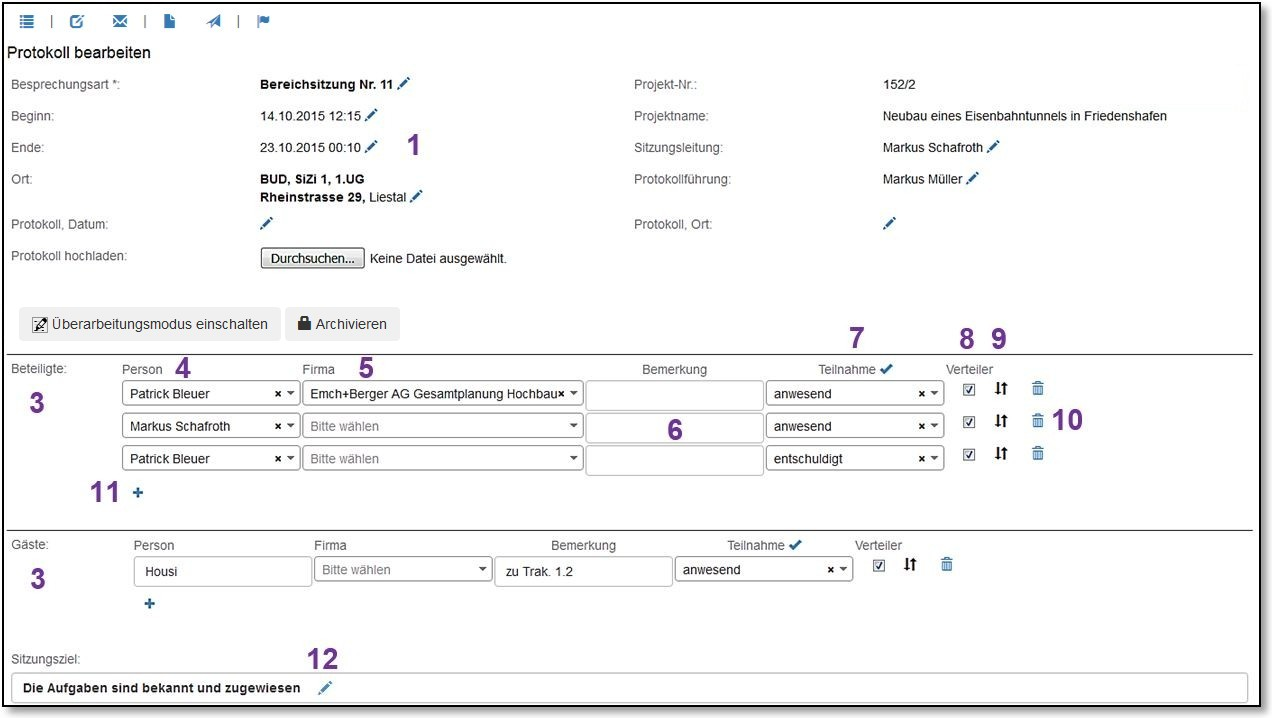
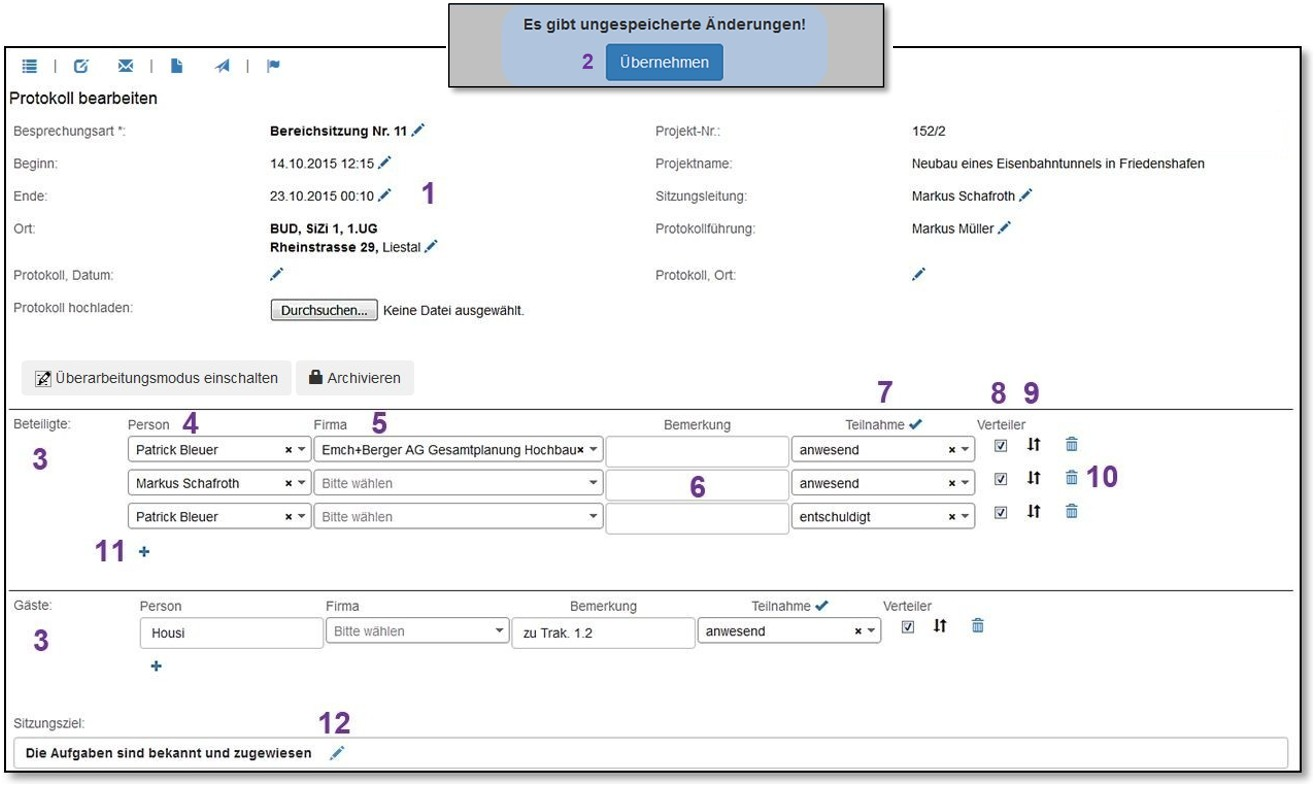
[german] Änderungen V2.11
Verschiedene Änderungen für Version 2.11 - PrintScreens ersetzen, Texte anpassen

diff --git a/german/chapters/05_Sitzungswesen/05_Sitzungswesen.tex b/german/chapters/05_Sitzungswesen/05_Sitzungswesen.tex
@@ -304,19 +304,14 @@ Alle Einträge, welche mit den Such-Begriffen übereinstimmen, werden angezeigt.
 
 \vspace{\baselineskip}
 
-Suchen Sie in der Liste die betreffende Sitzung und klicken Sie auf das Listensymbol \includegraphics[height=12pt]{/Icons/Listensymbol.jpg} rechts. Es erscheint die Ansicht 'Protokoll bearbeiten' mit der Maske für das Erfassen des Protokolls.
+Suchen Sie in der Liste die betreffende Sitzung und klicken Sie auf das Listensymbol \includegraphics[height=12pt]{/Icons/Listensymbol.jpg} rechts. Es erscheint die Ansicht 'Protokoll bearbeiten' mit der Maske für das Erfassen des Protokolls.\\
+\begin{small} \textbf{Hinweis}: Die Striche zwischen den Icons gruppieren die Funktionen 'Einladung' und 'Protokoll' (\includegraphics[height=11pt]{/Icons/DivIcon.jpg}).
+\end{small}
 
 \begin{figure}[H]
 \vspace{-8pt}  
 \center{\includegraphics[width=1\linewidth]{../chapters/05_Sitzungswesen/pictures/5-2-1_ProtokollBearbeiten.jpg}}
 \caption{Protokoll bearbeiten}
-% \label{fig:speciation}
-\end{figure}
-
-\begin{figure}[H]
-\vspace{-15pt}  
-\center{\includegraphics[width=0.4\linewidth]{../chapters/05_Sitzungswesen/pictures/5-2-1_Uebernehmen_top.jpg}}
-% \caption{Das Menü in CUBE PA}
 % \label{fig:speciation}
 \end{figure}
 
@@ -618,7 +613,8 @@ Um das Protokoll zu prüfen und zu korrigieren, wählt man im Menü den Punkt 'S
 
 \vspace{\baselineskip}
 
-\textbf{Individueller und globaler Überarbeitungsmodus}
+
+\subsubsection{Individueller und globaler Überarbeitungsmodus}
 
 \vspace{\baselineskip}
 
@@ -728,6 +724,24 @@ Sie können vor dem Abschliessen des Protokolls zur Kontrolle auch ein PDF davon
 
 Wenn Sie ganz sicher sind, dass alles im Protokoll stimmt, klicken Sie auf die Schaltfläche 'Archivieren' \col{(2)} und bestätigen die Rückfrage \col{(3)}. Dann setzt der CUBE PA den Status für diese Sitzung auf 'Definitiv' und das Protokoll lässt sich nicht mehr bearbeiten.
 
+\subsubsection{Das Sitzungsprotokoll als pdf}
+
+Wie oben beschrieben können Sie mittels \includegraphics[height=12pt]{/Icons/Blattsymbol.jpg}-Symbol \col{(1)} von der Sitzung ein PDF-Protokoll erstellen.
+
+\vspace{\baselineskip}
+
+Das Protokoll besteht aus den Eckdaten der Sitzung wie Zeit, Ort, Sitzungsleitung, Protokollführung etc. sowie den Teilnehmenden. Es ist ersichtlich wer auf dem Verteiler ist und wer an der Sitzung tatsächlich anwesend oder aber abwesend war. Weiter werden die Traktanden aufgeführt mitsamt den zugehörigen Pendenzen und Entscheiden. \\
+Weiter wird dem Protokoll die Pendenzenliste angehängt. Sie enthält sämtliche mit der Sitzung in Bezug stehenden Pendenzen, welche nicht abgeschlossen sind, resp. nicht den Abschlussstatus 'Abschluss bestätigt' haben.
+
+\begin{figure}[H]
+\center{\includegraphics[width=.65\linewidth]{../chapters/05_Sitzungswesen/pictures/5-3_Sitzungsprotokoll.jpg}}
+\caption{Das PDF-Protokoll}
+% \label{fig:speciation}
+\end{figure}
+
+\textbf{Hinweis:} Die Kopfzeile (Logo) wie auch die Fusszeile lassen sich individuell konfigureren.
+
+\clearpage
 \subsection{Pendenzen erstellen}
 
 Sie können auch Pendenzen unabhängig von einem Sitzungsprotokoll erstellen. Wählen Sie im Menü den Punkt 'Sitzungswesen' und dann den Unterpunkt 'Pendenzen'. Darauf erscheint die Pendenzenliste.

diff --git a/german/CUBEPA_Handbuch.tex b/german/CUBEPA_Handbuch.tex
@@ -102,20 +102,16 @@ Autoren & Dieter Schopfer, Benjamin Nyffenegger, Rayane Zahreddine, Adrian Johne
 Freigabe & Markus Schafroth\\
 Verteilen & .\\
 Datei & .\\
-Seitenzahl & 194\\
+Seitenzahl & 195\\
 Copyright & \copyright{ Emch+Berger AG Bern}\\
 \end{tabular}
 
 % \begin{minipage}{0.4\textwidth}
 % \begin{flushleft} \large
 % \emph{Autoren:}\\
-% Dieter Schopfer
 \begin{flushright}
 
 \end{flushright}
-% \linebreak Benjamin Nyffenegger
-% \linebreak Adrian Johner
-% \linebreak Markus Schafroth % \textsc{Smith} % Your name
 % \end{flushleft}
 % \end{minipage}
 
